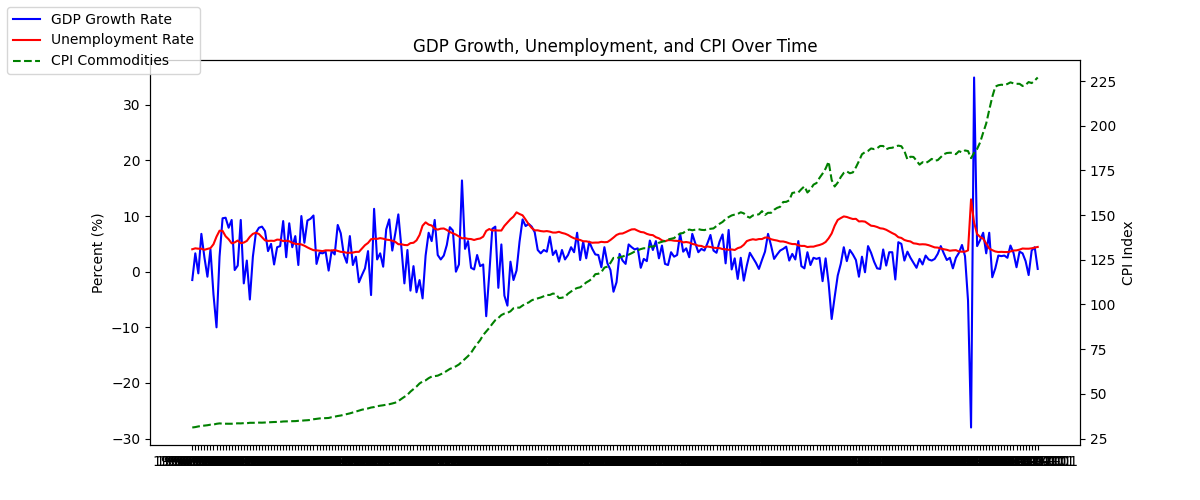
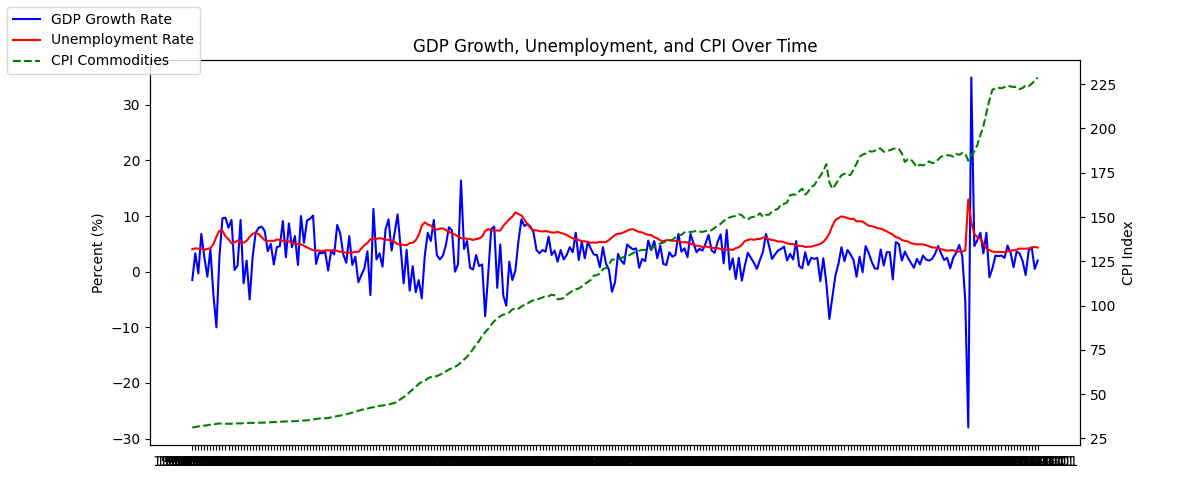
data folder and created run all script

diff --git a/run_all.py b/run_all.py
@@ -1,0 +1,21 @@
+import subprocess
+import sys
+
+print("Step 1: Data Acquisition & Joining")
+subprocess.run([sys.executable, "join.py"], check=True)
+
+print("Step 2: Exploratory Data Analysis")
+subprocess.run([
+    "jupyter", "nbconvert", "--to", "notebook",
+    "--execute", "EDA.ipynb",
+    "--output", "EDA.ipynb"
+], check=True)
+
+print("Step 3: Modeling")
+subprocess.run([
+    "jupyter", "nbconvert", "--to", "notebook",
+    "--execute", "models_2.ipynb",
+    "--output", "models_2.ipynb"
+], check=True)
+
+print("Finished running all steps")

diff --git a/join.py b/join.py
@@ -1,8 +1,12 @@
 import pandas as pd
+import os
 
-unrate = pd.read_csv("UNRATE.csv")
-gdp = pd.read_csv("A191RL1Q225SBEA.csv")
-cusr = pd.read_csv("CUSR0000SAC.csv")
+data_dir = "data"
+
+
+unrate = pd.read_csv(os.path.join(data_dir, "UNRATE.csv"))
+gdp = pd.read_csv(os.path.join(data_dir, "A191RL1Q225SBEA.csv"))
+cusr = pd.read_csv(os.path.join(data_dir, "CUSR0000SAC.csv"))
 
 unrate["observation_date"] = pd.to_datetime(unrate["observation_date"])
 gdp["observation_date"] = pd.to_datetime(gdp["observation_date"])